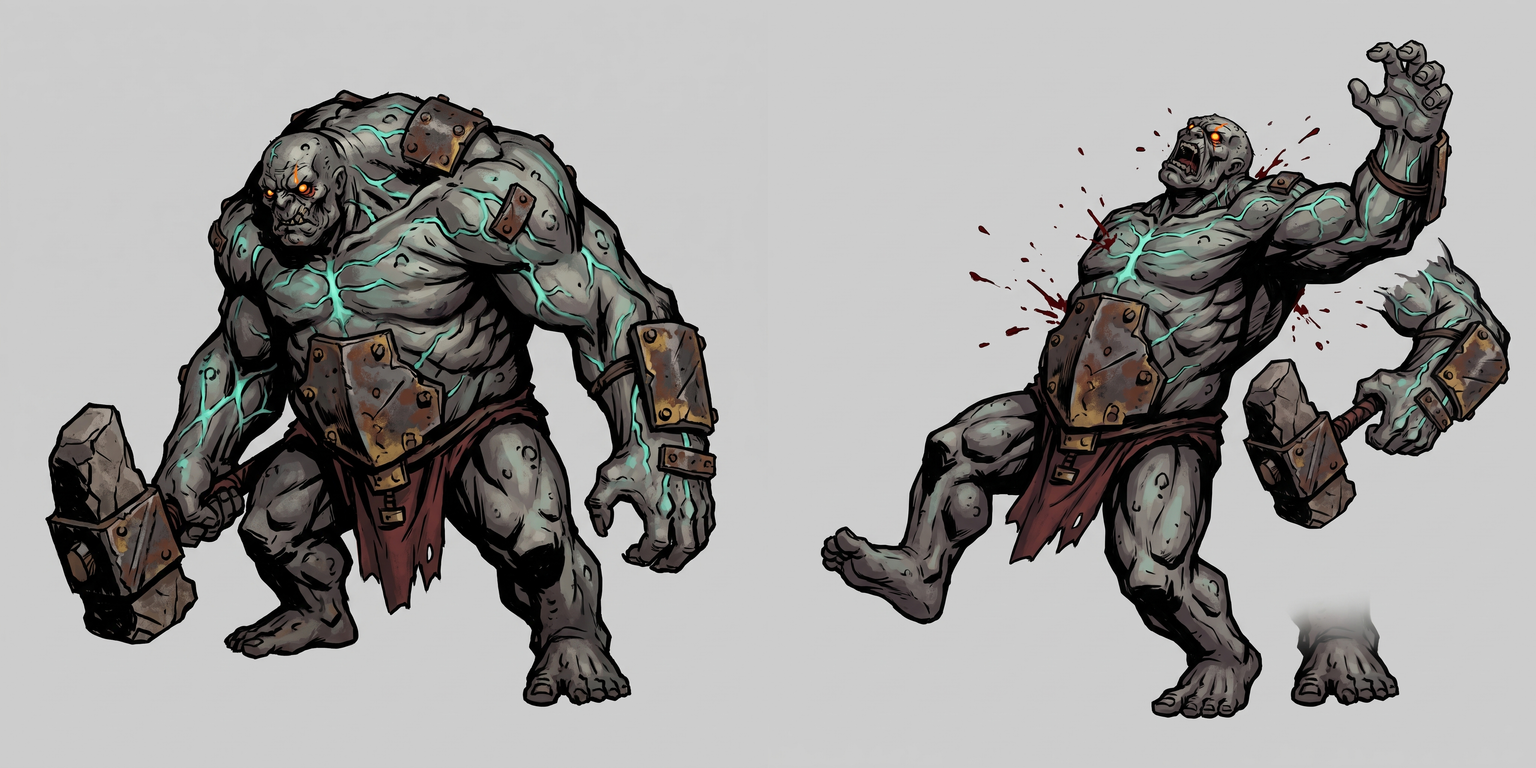
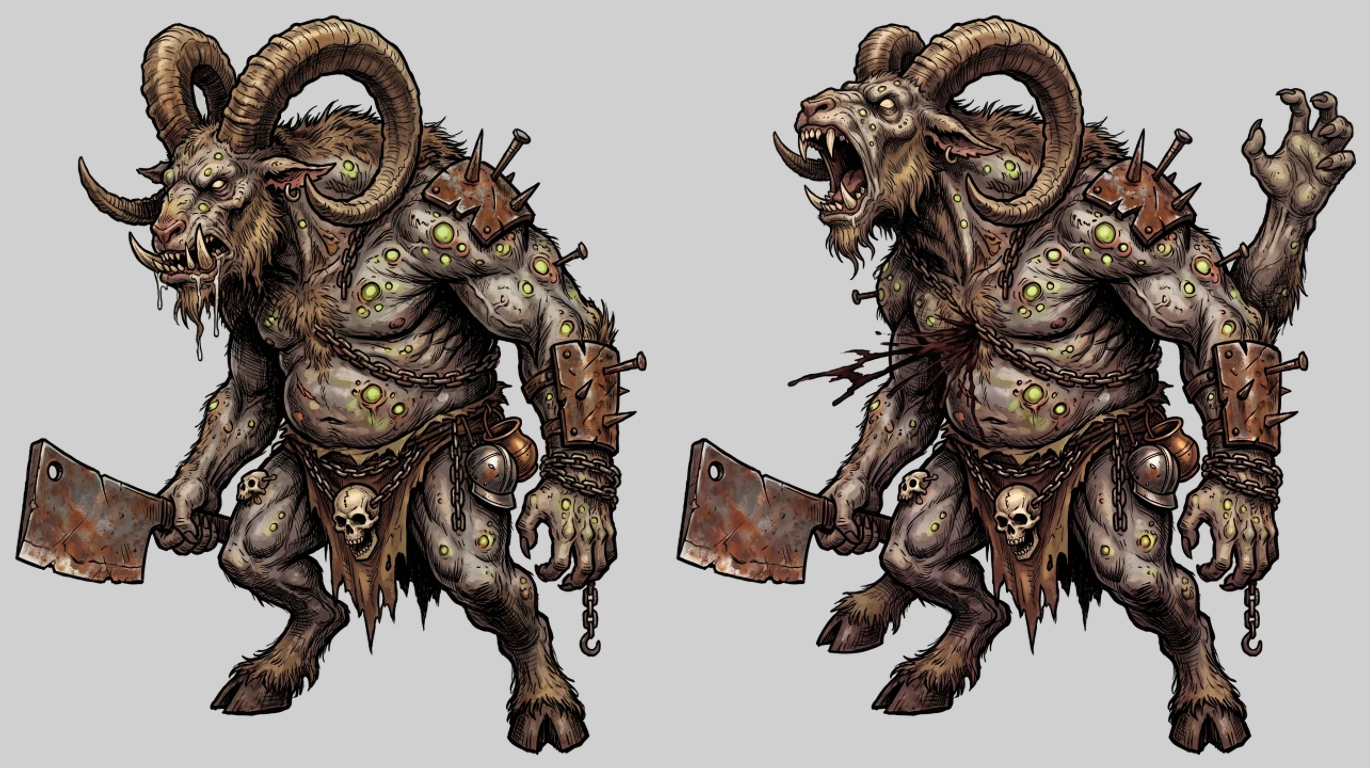
feat(poses_b_piloto): r2 refs v2 y prompts v2 para las hojas de poses (arte sin commitear)

diff --git a/art-b/poses_piloto/segment.js b/art-b/poses_piloto/segment.js
@@ -1,0 +1,27 @@
+// Segmenta una hoja de poses: perfil de columnas "no fondo" -> huecos = separadores. Uso: node segment.js <png> [n]
+const sharp = require('sharp');
+(async () => {
+  const f = process.argv[2];
+  const { data, info } = await sharp(f).ensureAlpha().raw().toBuffer({ resolveWithObject: true });
+  const { width: W, height: H } = info;
+  const px = (x, y, c) => data[(y * W + x) * 4 + c];
+  const corners = [[2, 2], [W - 3, 2], [2, H - 3], [W - 3, H - 3]].map(([x, y]) => [px(x, y, 0), px(x, y, 1), px(x, y, 2)]);
+  console.log('size', W, H, 'corners', JSON.stringify(corners));
+  const bg = [0, 1, 2].map((c) => corners.map((k) => k[c]).sort((a, b) => a - b)[2]);
+  const tol = 40;
+  const isFg = (x, y) => Math.abs(px(x, y, 0) - bg[0]) + Math.abs(px(x, y, 1) - bg[1]) + Math.abs(px(x, y, 2) - bg[2]) > tol;
+  const col = new Array(W).fill(0);
+  let top = H; let bot = 0;
+  for (let x = 0; x < W; x++) for (let y = 0; y < H; y++) if (isFg(x, y)) { col[x]++; top = Math.min(top, y); bot = Math.max(bot, y); }
+  const min = 3; const runs = []; let s = -1;
+  for (let x = 0; x <= W; x++) {
+    const on = x < W && col[x] > min;
+    if (on && s < 0) s = x;
+    if (!on && s >= 0) { runs.push([s, x - 1]); s = -1; }
+  }
+  // fusiona huecos < 12 px
+  const merged = [];
+  for (const r of runs) { const l = merged[merged.length - 1]; if (l && r[0] - l[1] < 12) l[1] = r[1]; else merged.push([...r]); }
+  console.log('bg', bg, 'vertical extent', top, bot);
+  console.log('runs', JSON.stringify(merged.filter((r) => r[1] - r[0] > 40)));
+})();

diff --git a/art-b/poses_piloto/make_refs.js b/art-b/poses_piloto/make_refs.js
@@ -1,0 +1,24 @@
+'use strict';
+// Compone la "hoja existente" (idle + pose actual lado a lado) como ref única de la web (solo se sube la 1ª ref).
+const path = require('path');
+const sharp = require('sharp');
+// r2: refs SOLO del arte v2 (webp procesados y commiteados, con alfa) montados sobre #d0d0d0. Nunca art-b/raw (v1).
+const RAW = path.join(__dirname, '..', '..', 'client', 'public', 'assets', 'b');
+const OUT = path.join(__dirname, 'refs');
+async function sheet(files, out) {
+  const H = 768;
+  const bufs = [];
+  for (const f of files) {
+    const b = await sharp(path.join(RAW, f)).resize({ height: H }).png().toBuffer();
+    bufs.push({ b, w: (await sharp(b).metadata()).width });
+  }
+  const W = bufs.reduce((s, x) => s + x.w, 0);
+  let x = 0;
+  const comp = bufs.map((o) => { const c = { input: o.b, left: x, top: 0 }; x += o.w; return c; });
+  await sharp({ create: { width: W, height: H, channels: 3, background: '#d0d0d0' } }).composite(comp).png().toFile(path.join(OUT, out));
+  console.log(out, W, H);
+}
+(async () => {
+  await sheet(['heroes/warrior_idle.webp', 'heroes/warrior_attack.webp'], 'warrior_ref.png');
+  await sheet(['enemies/bruto_idle.webp', 'enemies/bruto_hit.webp'], 'bruto_ref.png');
+})();

diff --git a/art-b/poses_piloto/bbox_crops.js b/art-b/poses_piloto/bbox_crops.js
@@ -1,0 +1,24 @@
+// Altura (bbox "no fondo", componente mayor aprox. por umbral) de cada recorte de una hoja de poses.
+// Uso: node bbox_crops.js <png> x,y,w,h [x,y,w,h ...]  -> imprime alturas y la relación con la mayor
+const sharp = require('sharp');
+(async () => {
+  const f = process.argv[2];
+  const crops = process.argv.slice(3).map((s) => s.split(',').map(Number));
+  const { data, info } = await sharp(f).ensureAlpha().raw().toBuffer({ resolveWithObject: true });
+  const W = info.width;
+  const bgv = 201;
+  const res = crops.map(([cx, cy, cw, ch]) => {
+    let t = 1e9; let b = -1; let l = 1e9; let r = -1;
+    for (let y = cy; y < cy + ch; y++) {
+      let n = 0;
+      for (let x = cx; x < cx + cw; x++) {
+        const i = (y * W + x) * 4;
+        if (Math.abs(data[i] - bgv) + Math.abs(data[i + 1] - bgv) + Math.abs(data[i + 2] - bgv) > 60) { n++; if (x < l) l = x; if (x > r) r = x; }
+      }
+      if (n >= 3) { if (y < t) t = y; if (y > b) b = y; }
+    }
+    return { h: b - t + 1, w: r - l + 1, top: t, bottom: b };
+  });
+  const maxH = Math.max(...res.map((q) => q.h));
+  console.log(JSON.stringify(res.map((q) => ({ ...q, rel: Math.round((q.h / maxH) * 1000) / 1000 }))));
+})();

diff --git a/art-b/poses_piloto/prof.js b/art-b/poses_piloto/prof.js
@@ -1,0 +1,4 @@
+const sharp=require('sharp');
+(async()=>{const f=process.argv[2];const{data,info}=await sharp(f).ensureAlpha().raw().toBuffer({resolveWithObject:true});const{width:W,height:H}=info;
+const bg=201;let out=[];for(let x0=0;x0<W;x0+=16){let n=0;for(let x=x0;x<Math.min(W,x0+16);x++)for(let y=0;y<H;y++){const i=(y*W+x)*4;if(Math.abs(data[i]-bg)+Math.abs(data[i+1]-bg)+Math.abs(data[i+2]-bg)>60)n++;}out.push(Math.round(n/16));}
+console.log(out.join(' '));})();

diff --git a/art-b/poses_piloto/edge_busy.js b/art-b/poses_piloto/edge_busy.js
@@ -1,0 +1,4 @@
+const { spawnSync } = require('child_process');
+const cmd = `(Get-CimInstance Win32_Process -Filter "name='msedge.exe'" | ? { $_.CommandLine -match 'gemini-web-profile' }).Count`;
+const r = spawnSync('powershell', ['-NoProfile', '-Command', cmd], { encoding: 'utf8' });
+console.log((r.stdout || '').trim() || '0?', r.stderr ? r.stderr.slice(0, 200) : '');

diff --git a/specs/poses_b_piloto/NOTAS.md b/specs/poses_b_piloto/NOTAS.md
@@ -51,3 +51,14 @@ fluidez en el combate B **sin animación cuadro a cuadro**. Decide el owner si s
 
 ## Pendiente
 - Veredicto de p-kh/owner sobre el arte. Al reanudar: aplicar veredicto, commitear los webp aprobados, suites + build, review.
+
+## r2 — regeneración con refs v2 (veredicto p-kh, t_ccc081fa)
+- Causa del rechazo: `make_refs.js` leía `D:/Proyectos/kingdoms-harvest/art-b/raw` (arte **v1**: `anchor_warrior_v1.png`, `bruto_idle.png`), de ahí el caballero gris con farol y el ogro de maza.
+- Fix: `art-b/poses_piloto/make_refs.js` lee **solo** los webp v2 commiteados (`heroes/warrior_idle+attack.webp`, `enemies/bruto_idle+hit.webp`, con alfa), los escala a 768 de alto y los monta sobre `#d0d0d0` con sharp (nunca `art-b/raw`). Refs: `refs/warrior_ref.png` 1379×768, `refs/bruto_ref.png` 1370×768.
+- Prompts (`manifest.json`) con el diseño v2 literal (landsknecht barbudo, sombrero con plumas, pipa, jubón acuchillado rojo-ocre, peto abollado, hoja ondulada, vela, calavera y rollos lacrados; hombre-cabra con cuernos de carnero, piel gris con pústulas amarillo-verdosas, cadenas, hombrera/brazal oxidados, taparrabos de calaveras, cuchilla de carnicero). En KO: "no blood, no gore". Fondo `#d0d0d0`, sin piso ni sombra.
+- **Generaciones: 4 de 8** en total (2 de r1 + 2 de r2, una por hoja). En r2 hubo además 1 intento del warrior que dio *timeout (120 s)* sin imagen (no lo cuento como generación; se repitió y salió a la siguiente). Perfil Edge: ocupado por F7 ~4 min, esperé hasta `0` y lo verifiqué antes de cada llamada.
+- Tamaño: ~340 px por pose alcanza (veredicto): hoja única por personaje, sin partir. Cortes ampliados (hit 0–445, skill 375–760, ko 650–1070, victory 1000–1376) porque las poses se entrelazan (espada clavada del KO vs hoja alzada del skill); `process_art_b.js` se queda con el componente mayor y descarta los restos del vecino. `--scale 0.935` (héroe: victory ≈ 640 px como `warrior_idle`) y `0.93` (bruto ≈ 714/674 px de 720).
+- Alfa (`verify_alpha_b.js`): 6/6 OK — esquinas alfa 0, borde 100 % transparente, 1 componente; sin tira de piso.
+- Evidencia r2: `contact_poses.webp` (v2 idle/attack/hit a la izquierda de las poses nuevas + las 2 hojas crudas) y `despues.webm` regrabado (mismo guion, 13,4 s, **59 fps**, 0 errores de consola/textura). `antes.webm` no cambia (usa solo arte commiteado).
+- Dudoso: no pude inspeccionar las imágenes con visión; verifiqué por geometría (bordes/alfa/ASCII). Revisar a ojo que el KO del warrior (cortado entre la espada clavada y el cuerpo) no arrastre fragmentos del vecino y que el diseño v2 se mantenga en las 6 poses.
+- Arte **sin commitear** hasta el veredicto de p-kh.
